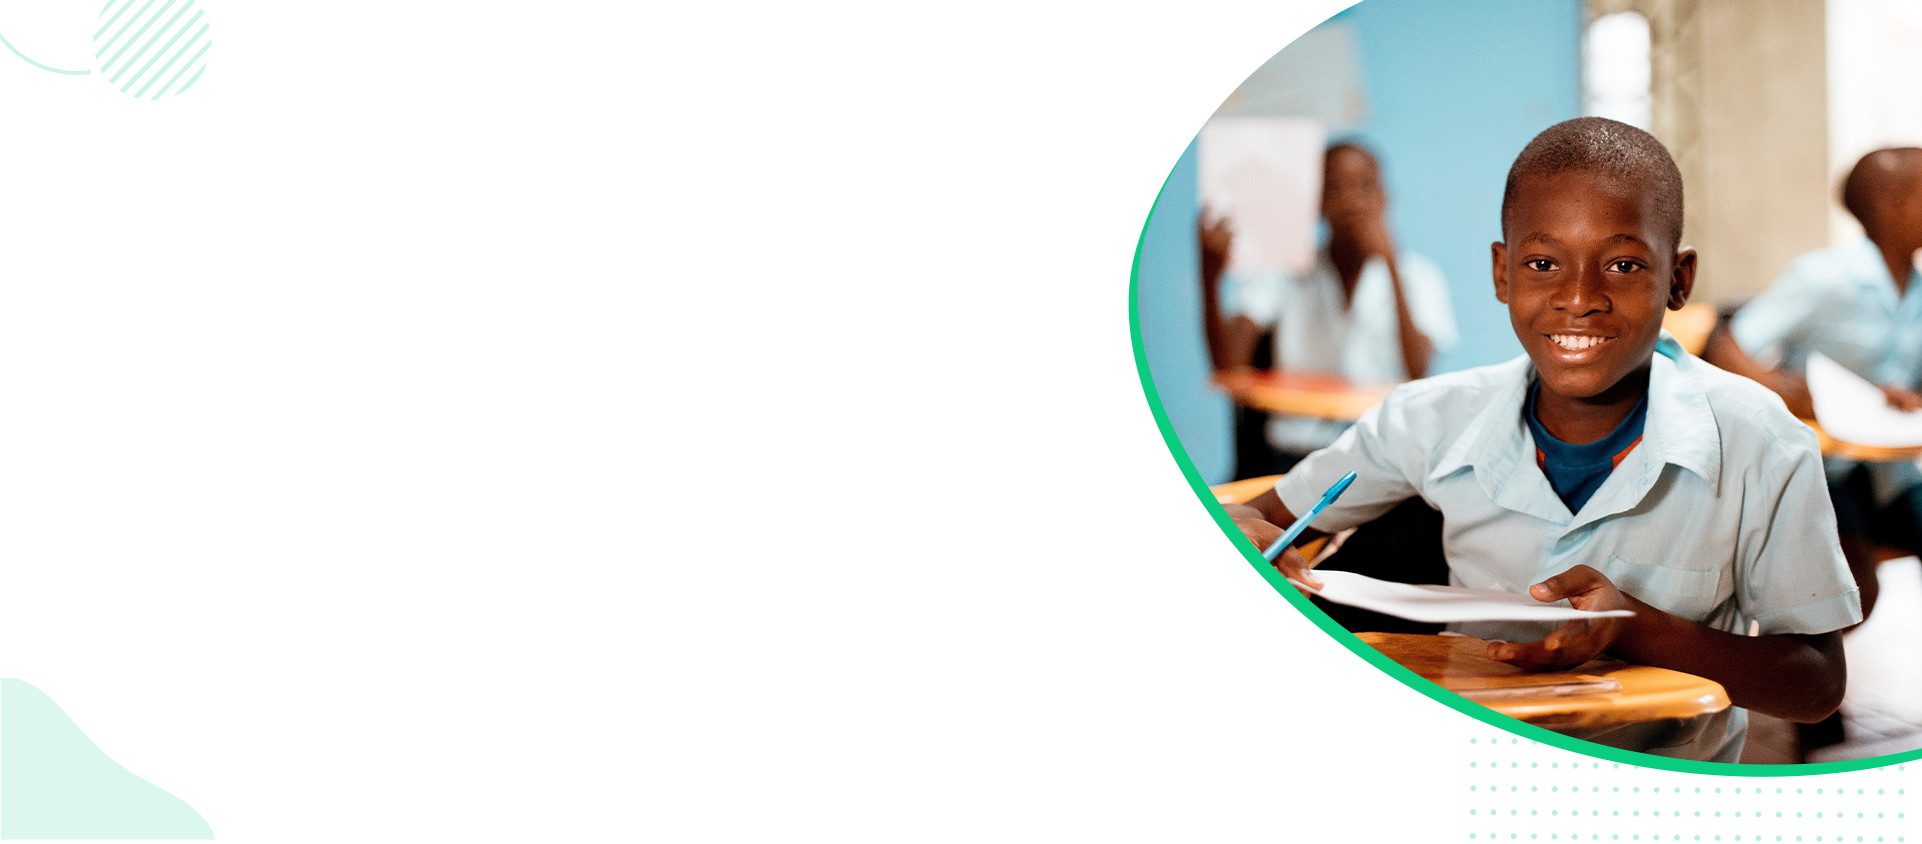
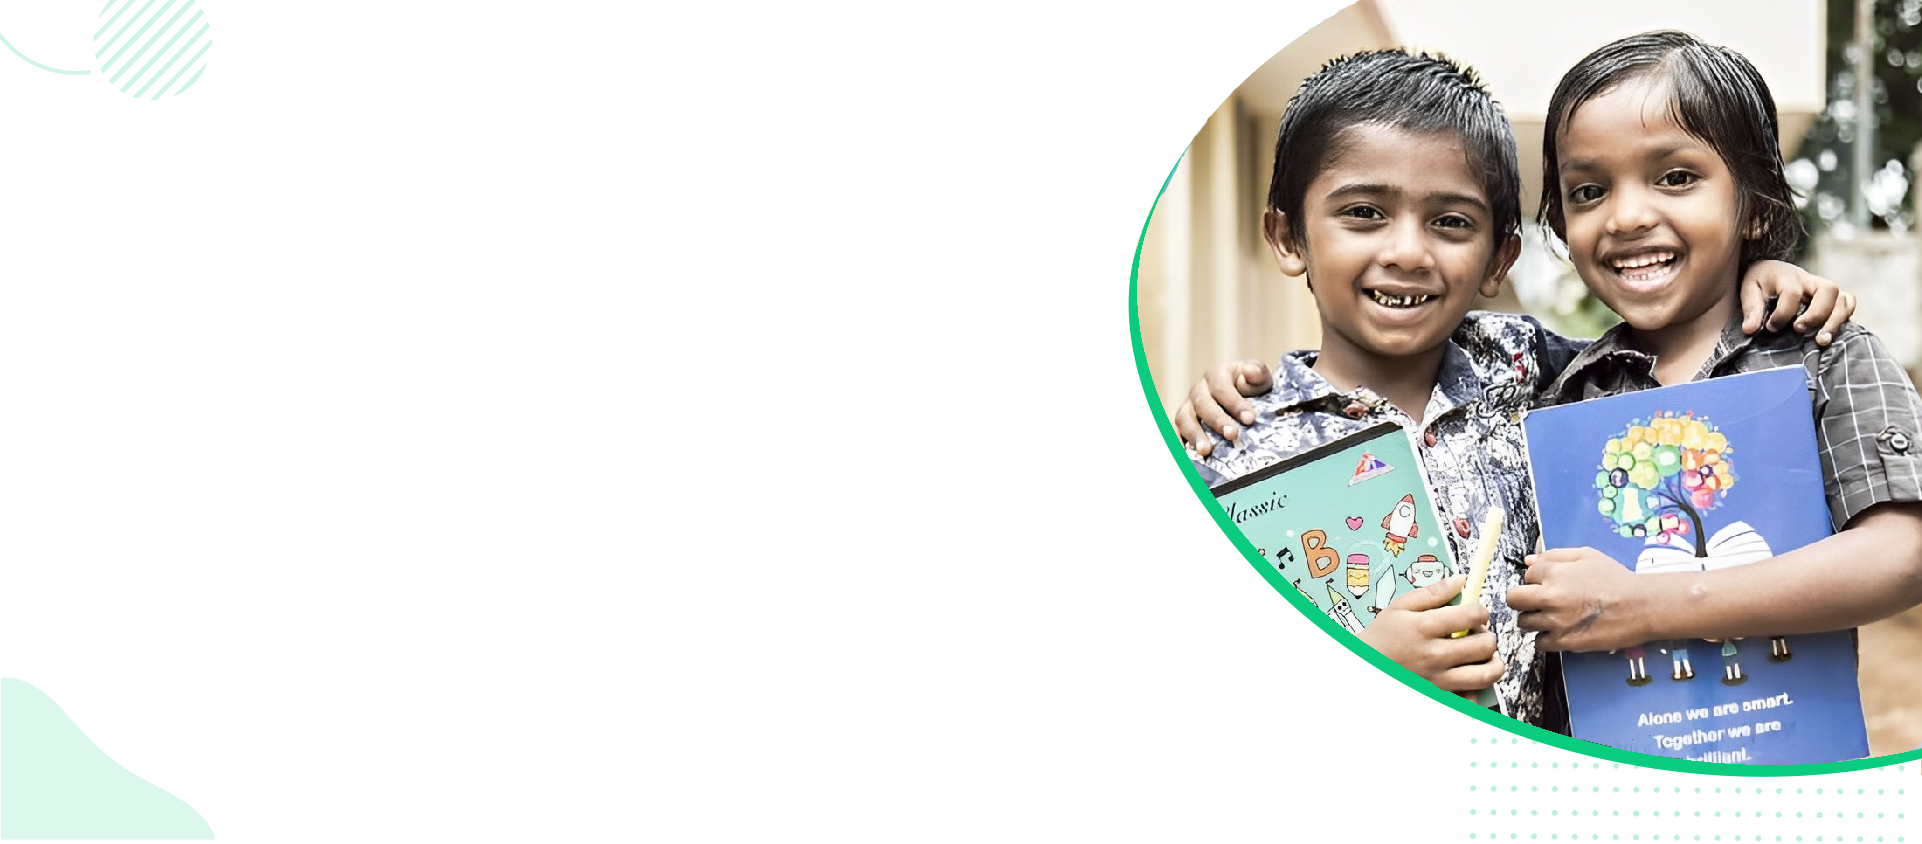
Landing page image fixed, background added to brandname on landing page, reduced header size

Changed region(s): [[0.5931, 0.0, 1.0, 0.9242]]

diff --git a/gallery.html b/gallery.html
@@ -108,15 +108,11 @@
 <!-- header end -->
 <main>
     <!--? Hero Start -->
-    <div class="slider-area2">
-        <div class="slider-height2 d-flex align-items-center">
-            <div class="container">
-                <div class="row">
-                    <div class="col-xl-12">
-                        <div class="hero-cap hero-cap2 pt-20 text-center">
-                            <h2>Gallery</h2>
-                        </div>
-                    </div>
+    <div class="container">
+        <div class="row">
+            <div class="col-xl-12">
+                <div class="hero-cap hero-cap2 pt-20 text-center">
+                    <h1>Gallery</h1>
                 </div>
             </div>
         </div>
@@ -128,23 +124,20 @@
         <div class="container">
             <div id="carouselExampleIndicators" class="carousel slide" data-ride="carousel">
                 <ol class="carousel-indicators">
-                    <li data-target="#carouselExampleIndicators" data-slide-to="0" class="active"></li>
-                    <li data-target="#carouselExampleIndicators" data-slide-to="1"></li>
-                    <li data-target="#carouselExampleIndicators" data-slide-to="2"></li>
+                    <!-- Indicators will be added dynamically using JavaScript -->
                 </ol>
-                <div class="carousel-inner">
-                    <div class="carousel-item active">
-                        <img class="d-block w-100" src="assets/img/gallery2/g15.jpeg" alt="First slide">
+                <div id="imageCarousel" class="carousel slide" data-ride="carousel">
+                    <div class="carousel-inner">
+                        <!-- Images will be added dynamically using JavaScript -->
                     </div>
-                    <div class="carousel-item">
-                        <img class="d-block w-100" src="assets/img/gallery2/g24.jpeg" alt="Second slide">
-                    </div>
-                    <div class="carousel-item">
-                        <img class="d-block w-100" src="assets/img/gallery2/g44.jpg" alt="Third slide">
-                    </div>
-                    <div class="carousel-item">
-                        <img class="d-block w-100" src="assets/img/gallery2/g46.jpg" alt="Third slide">
-                    </div>
+                    <a class="carousel-control-prev" href="#imageCarousel" role="button" data-slide="prev">
+                        <span class="carousel-control-prev-icon" aria-hidden="true"></span>
+                        <span class="sr-only">Previous</span>
+                    </a>
+                    <a class="carousel-control-next" href="#imageCarousel" role="button" data-slide="next">
+                        <span class="carousel-control-next-icon" aria-hidden="true"></span>
+                        <span class="sr-only">Next</span>
+                    </a>
                 </div>
                 <a class="carousel-control-prev" href="#carouselExampleIndicators" role="button" data-slide="prev">
                     <span class="carousel-control-prev-icon" aria-hidden="true"></span>
@@ -451,13 +444,13 @@
                             </div>
                         </a>
                     </div>
-                    <div class="col-md-4">
+                    <div class="col-md-6">
                         <a href="assets/img/gallery2/g50.jpg" class="img-pop-up">
                             <div class="single-gallery-image" style="background: url(assets/img/gallery2/g50.jpg);">
                             </div>
                         </a>
                     </div>
-                    <div class="col-md-4">
+                    <div class="col-md-6">
                         <a href="assets/img/gallery2/g51.jpg" class="img-pop-up">
                             <div class="single-gallery-image" style="background: url(assets/img/gallery2/g51.jpg);">
                             </div>
@@ -481,7 +474,7 @@
                             </div>
                         </a>
                     </div>
-                    <div class="col-md-4">
+                    <div class="col-md-6">
                         <a href="assets/img/gallery2/g55.jpg" class="img-pop-up">
                             <div class="single-gallery-image" style="background: url(assets/img/gallery2/g55.jpg);">
                             </div>
@@ -595,6 +588,38 @@
     <a title="Go to Top" href="#"> <i class="fas fa-level-up-alt"></i></a>
 </div>
 <!-- JS here -->
+
+<script>
+    // JavaScript code to dynamically populate the carousel
+    const indicators = document.querySelector('.carousel-indicators');
+    const carouselInner = document.querySelector('#imageCarousel .carousel-inner');
+
+    for (let i = 1; i <= 41; i++) {
+        const src = `assets/img/gallery2/g${i}.jpeg`;
+        const alt = `Slide ${i}`;
+        const active = (i === 1) ? 'active' : '';
+
+        const indicator = document.createElement('li');
+        indicator.setAttribute('data-target', '#imageCarousel');
+        indicator.setAttribute('data-slide-to', i - 1);
+        if (i === 1) {
+            indicator.className = 'active';
+        }
+
+        const carouselItem = document.createElement('div');
+        carouselItem.className = `carousel-item ${active}`;
+
+        const img = document.createElement('img');
+        img.className = 'd-block w-100';
+        img.src = src;
+        img.alt = alt;
+
+        indicator.appendChild(carouselItem);
+        carouselItem.appendChild(img);
+        indicators.appendChild(indicator);
+        carouselInner.appendChild(carouselItem);
+    }
+</script>
 
 <script src="./assets/js/vendor/modernizr-3.5.0.min.js"></script>
 <!-- Jquery, Popper, Bootstrap -->

diff --git a/index.html b/index.html
@@ -28,6 +28,30 @@
     <link rel="stylesheet" href="https://cdnjs.cloudflare.com/ajax/libs/font-awesome/6.4.0/css/all.min.css"
         integrity="sha512-iecdLmaskl7CVkqkXNQ/ZH/XLlvWZOJyj7Yy7tcenmpD1ypASozpmT/E0iPtmFIB46ZmdtAc9eNBvH0H/ZpiBw=="
         crossorigin="anonymous" referrerpolicy="no-referrer" />
+
+    <style>
+        /* Add your CSS styles here */
+        .hero__caption {
+            position: relative;
+            padding: 100px 0;
+            /* Adjust as needed */
+            color: #fff;
+            /* Text color */
+        }
+
+        .hero__caption h1 {
+            /* Set the background image */
+            background-image: url('assets/img/logo/loader4.png');
+            background-size: contain;
+            background-position: center;
+            background-repeat: no-repeat;
+            padding: 20px;
+            /* Adjust padding as needed */
+            /* Add other desired styles */
+        }
+
+        /* Add other CSS styles as needed */
+    </style>
 </head>
 
 <body>

diff --git a/about.html b/about.html
@@ -116,15 +116,11 @@
     <!-- header end -->
     <main>
         <!--? Hero Start -->
-        <div class="slider-area2">
-            <div class="slider-height2 d-flex align-items-center">
-                <div class="container">
-                    <div class="row">
-                        <div class="col-xl-12">
-                            <div class="hero-cap hero-cap2 pt-20 text-center">
-                                <h2>About US</h2>
-                            </div>
-                        </div>
+        <div class="container">
+            <div class="row">
+                <div class="col-xl-12">
+                    <div class="hero-cap hero-cap2 pt-20 text-center">
+                        <h1>About Us</h1>
                     </div>
                 </div>
             </div>

diff --git a/contact.html b/contact.html
@@ -108,15 +108,11 @@
 <!-- header end -->
 <main>
     <!--? Hero Start -->
-    <div class="slider-area2">
-        <div class="slider-height2 d-flex align-items-center">
-            <div class="container">
-                <div class="row">
-                    <div class="col-xl-12">
-                        <div class="hero-cap hero-cap2 pt-20 text-center">
-                            <h2>Contact Us</h2>
-                        </div>
-                    </div>
+    <div class="container">
+        <div class="row">
+            <div class="col-xl-12">
+                <div class="hero-cap hero-cap2 pt-20 text-center">
+                    <h1>Contact Us</h1>
                 </div>
             </div>
         </div>
